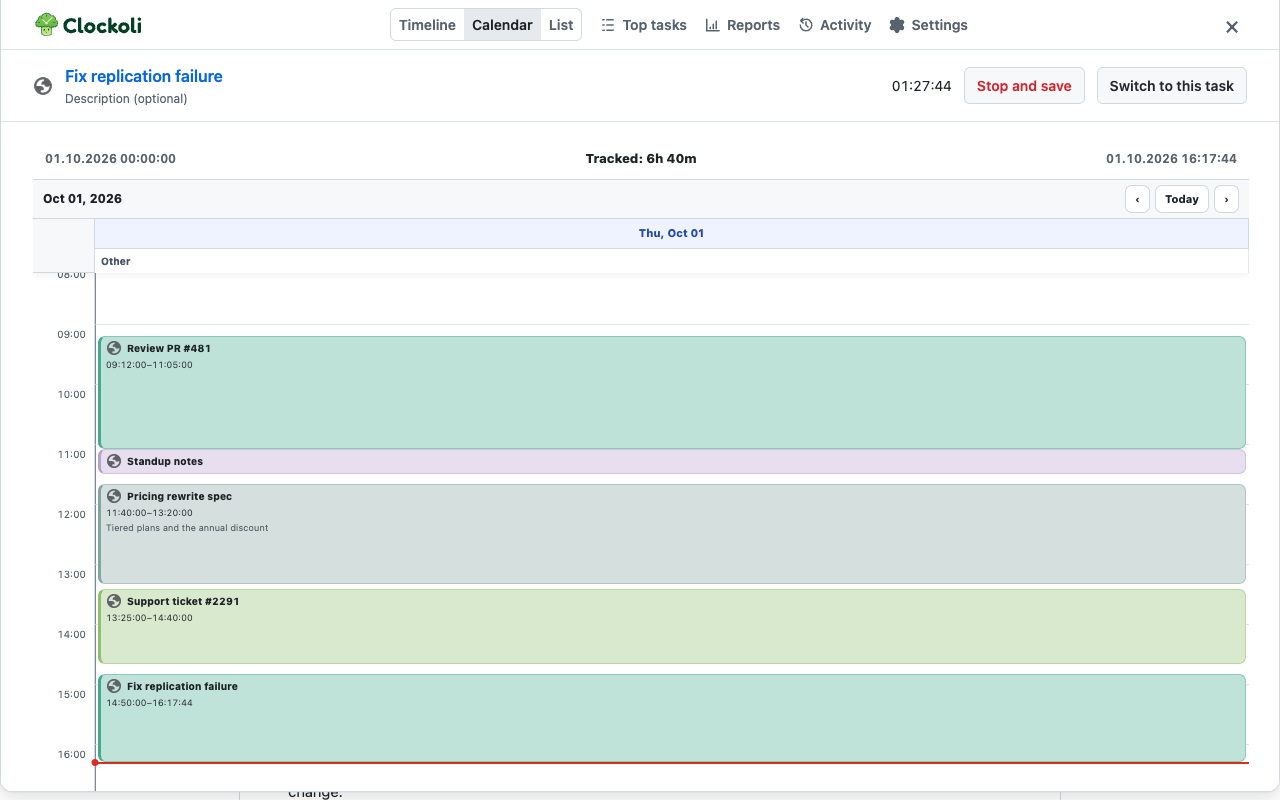
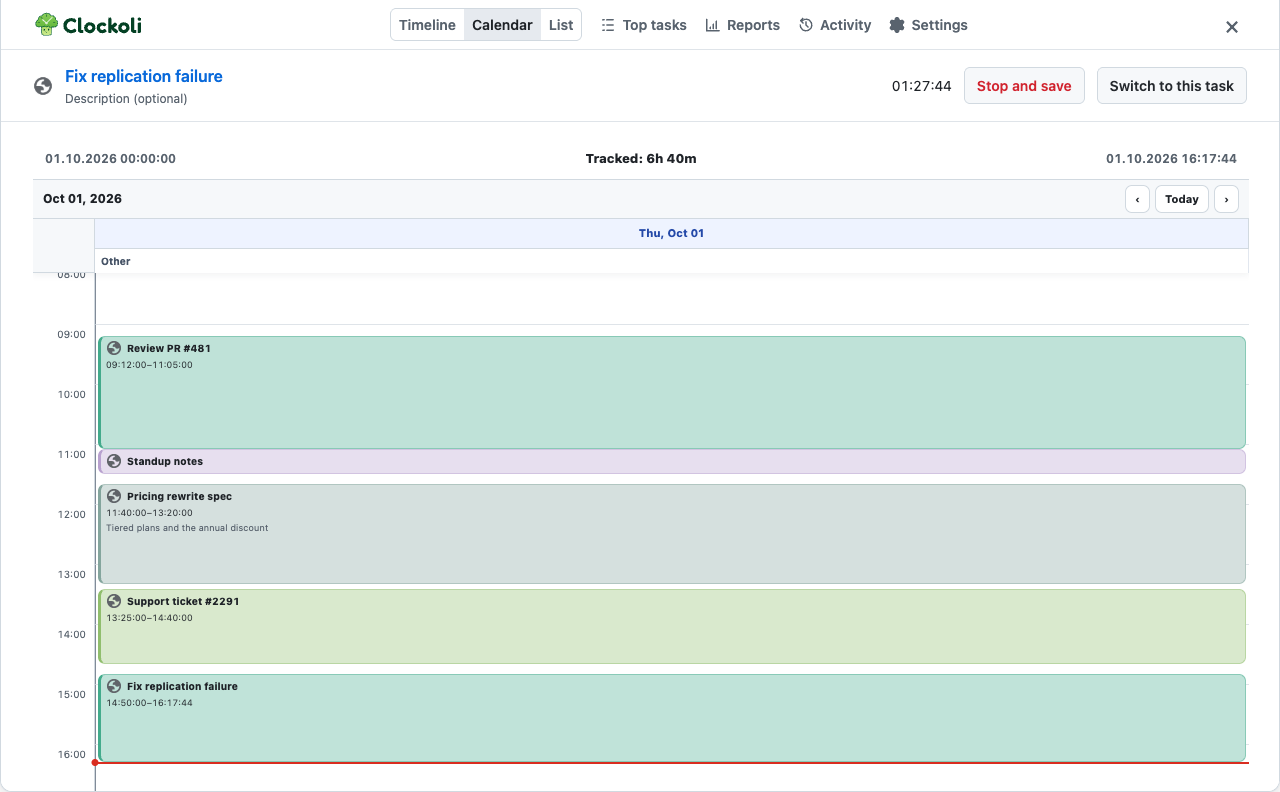
docs(readme): reorganize feature screenshots
- Reorganize feature screenshots alongside their related sections
- Refresh the calendar screenshot and describe draggable, resizable
  blocks

diff --git a/README.md b/README.md
@@ -81,22 +81,24 @@ Your GitHub account signs you in, a source repository may own the issue you trac
 
 ## Features
 
-<p align="center">
-  <img src="docs/images/top-tasks.png" width="280" alt="Top tasks: recently tracked tasks with totals and Start buttons">
-  <img src="docs/images/calendar.png" width="280" alt="Activity calendar: a day of tracked blocks">
-  <img src="docs/images/reports.png" width="280" alt="Reports: hours per day stacked by person, with CSV, JSON, Print and Create invoice actions">
-</p>
-
 ### Track
 
 - Start a timer on any HTTP(S) page from the toolbar, or from the stopwatch built into GitHub issue and pull-request pages.
 - Keep one running timer: starting another task stops the current one first. Timer changes are queued locally and synchronized with GitHub, so they survive going offline.
 - See live **Today** and **This week** totals, and switch to a recent task from **Top tasks**.
 
+<p align="center">
+  <img src="docs/images/top-tasks.png" width="600" alt="Top tasks: recently tracked tasks with totals and Start buttons">
+</p>
+
 ### Correct
 
 - Edit entries in a timeline, calendar or list. Drag and resize blocks; moving an entry into its neighbour adjusts the neighbour in the same commit.
 - Delete entries, add completed entries in bulk on the Activity page, and merge task identities that refer to the same work.
+
+<p align="center">
+  <img src="docs/images/calendar.png" width="600" alt="Activity calendar: a day of tracked blocks that can be dragged and resized">
+</p>
 
 ### Report and bill
 
@@ -104,6 +106,10 @@ Your GitHub account signs you in, a source repository may own the issue you trac
 - Export CSV or JSON timesheets, or print a report to PDF.
 - Set effective-dated hourly rates per person. Rates stay in your browser and are never written to the repository; mixed currencies are converted at each day's exchange rate.
 - Create numbered, taxed invoices from a filtered report and print them or save them as PDF. Invoices are generated in the browser and never committed.
+
+<p align="center">
+  <img src="docs/images/reports.png" width="600" alt="Reports: hours per day stacked by person, with CSV, JSON, Print and Create invoice actions">
+</p>
 
 ### Work as a team
 
